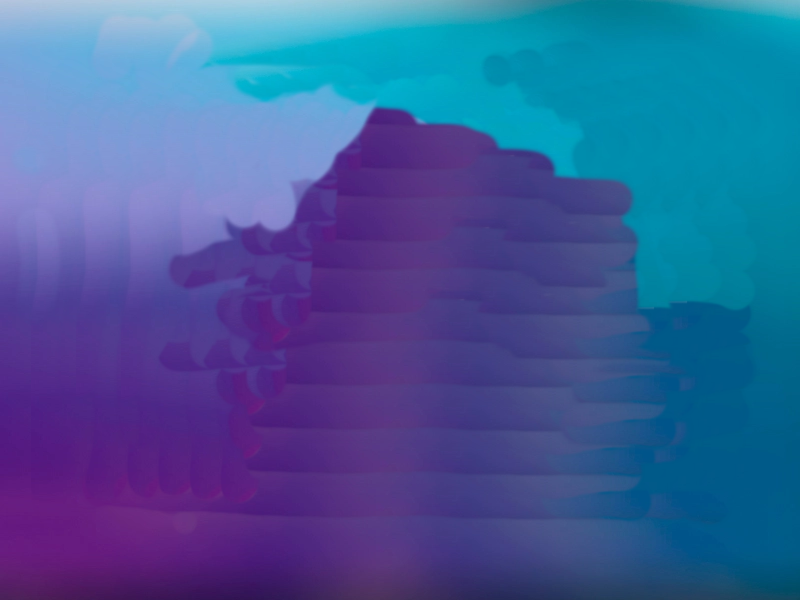
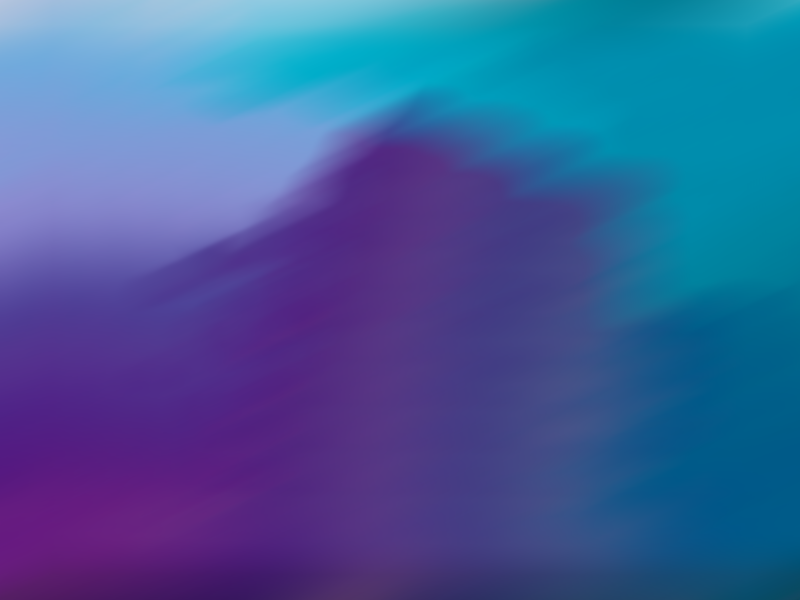
pradzia

diff --git a/main.css b/main.css
@@ -1,25 +1,75 @@
 body,
 body * {
-    margin: 0;
-    padding: 0;
-    vertical-align: top;
-    box-sizing: border-box;
-    font-family: 'Gill Sans', 'Gill Sans MT', Calibri, 'Trebuchet MS', sans-serif;
+   
+}
+body{
+    background-color: darkturquoise;
+    background-image:url(Sign\ in\ be\ raidziu.png);
+    background-repeat: no-repeat;
+    background-position: center;
+    background-size: cover;
+    width: 1000px;
+    margin-left: calc( (100% - 1000px) /2 );
+}
+    main{
+        background-color: brown;
+        display: inline-block;
+        height: 100px;
+        width: 1000px;
+        margin-left: calc( (100% - 1000px) /2 );
+}
+        kalnai{
+            background-image:url();
+            display: inline block;
+            height: 450px;
+            width: 450px;
+            margin-top: 80px;
+            float: left;
+
+}
+            h1{
+                display: inline block;
+                width: 100%;
+                font-size: 35px;
+        
+        }
+            a{
+                display: inline block;
+                width: 50%;
+                font-size: 25px;
+                
+        }
+    form{
+        background-color: darkblue;
+        display: inline block;
+        height: 550px;
+        width: 550px;
+        margin-top: 15px;
+        float: right;
+
 }
 
-main{
-
-}
-
-kalnai{
-
-}
-
-form{
-
-}
-
-.mygtukai{
-    display: flex;
-    flex-direction: row;
- }
+        div{
+            background-color: darkgrey;
+            display: inline block;
+    }
+    
+        input{
+            background-color: darkorchid;
+            display: inline block;
+    }  
+        .mygtukai{
+            display: flex;
+            flex-direction: row;
+            width: 30%;
+            font-size: 15px;
+        }
+            .mygtukas{
+                display: inline block;
+        }
+            p{
+                display: inline block;
+        }
+            .mygtukass{
+                display: inline block;
+        }

diff --git a/index.html b/index.html
@@ -26,7 +26,7 @@
             <div class="mygtukai">
                 <a href="#" class="mygtukas">Get started</a>
                 <p>&nbsp;or&nbsp;</p>
-                <a href="#">Sign in</a>
+                <a href="#" class="mygtukass">Sign in</a>
             </div>
         </form>
     </main>
